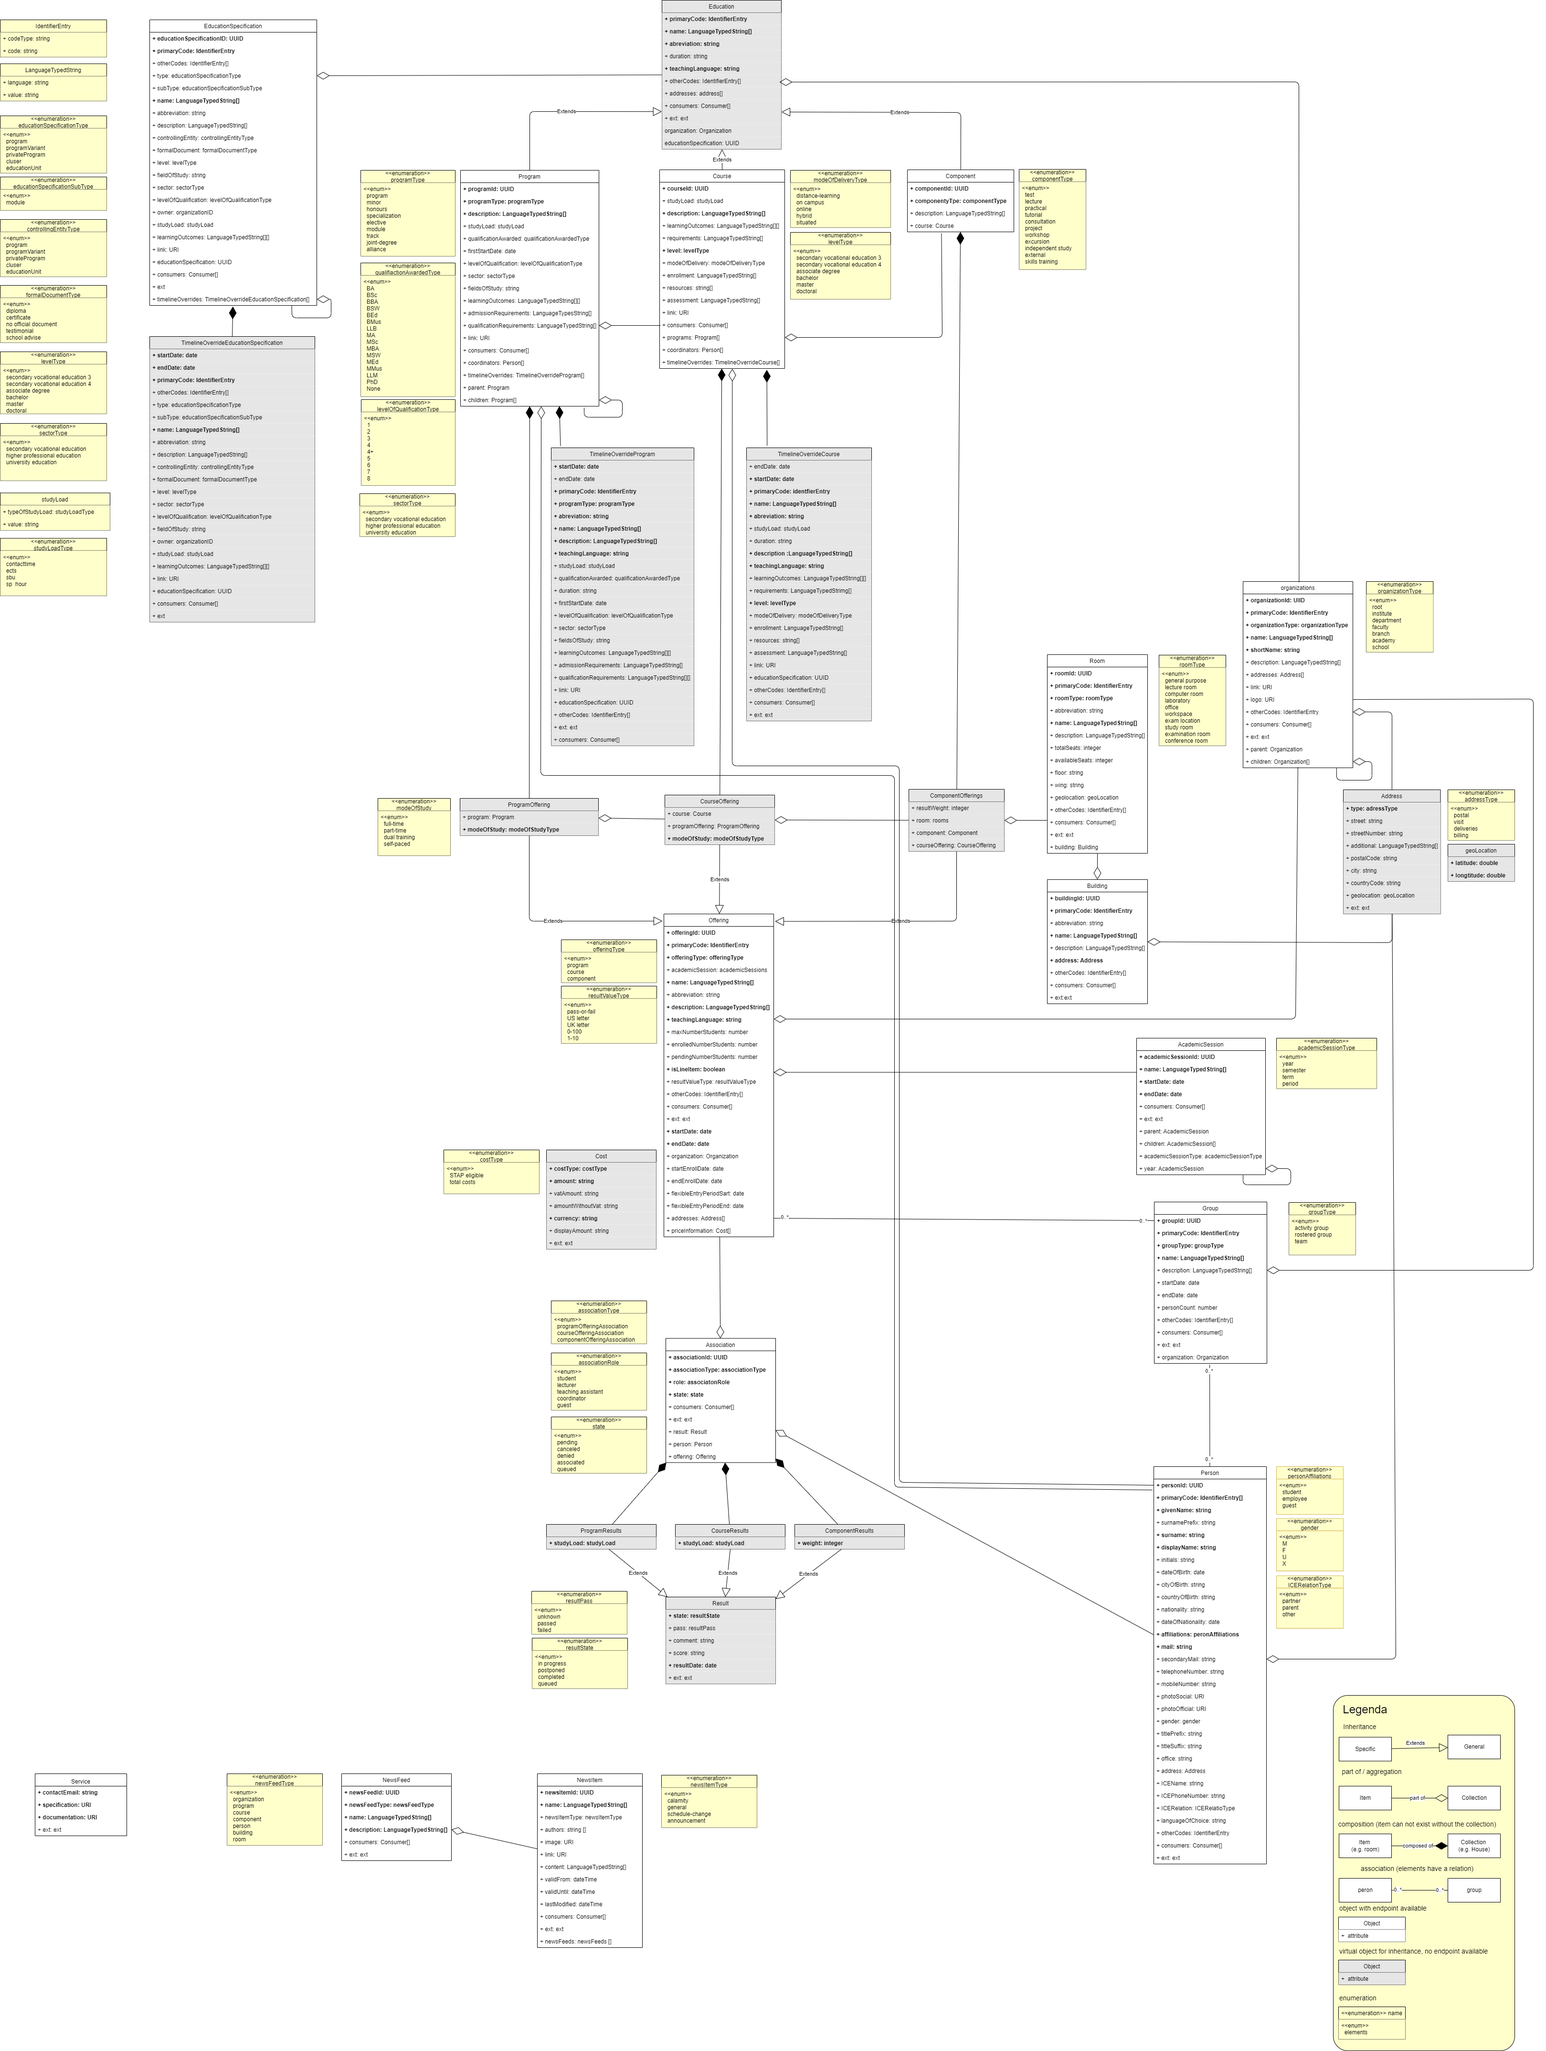
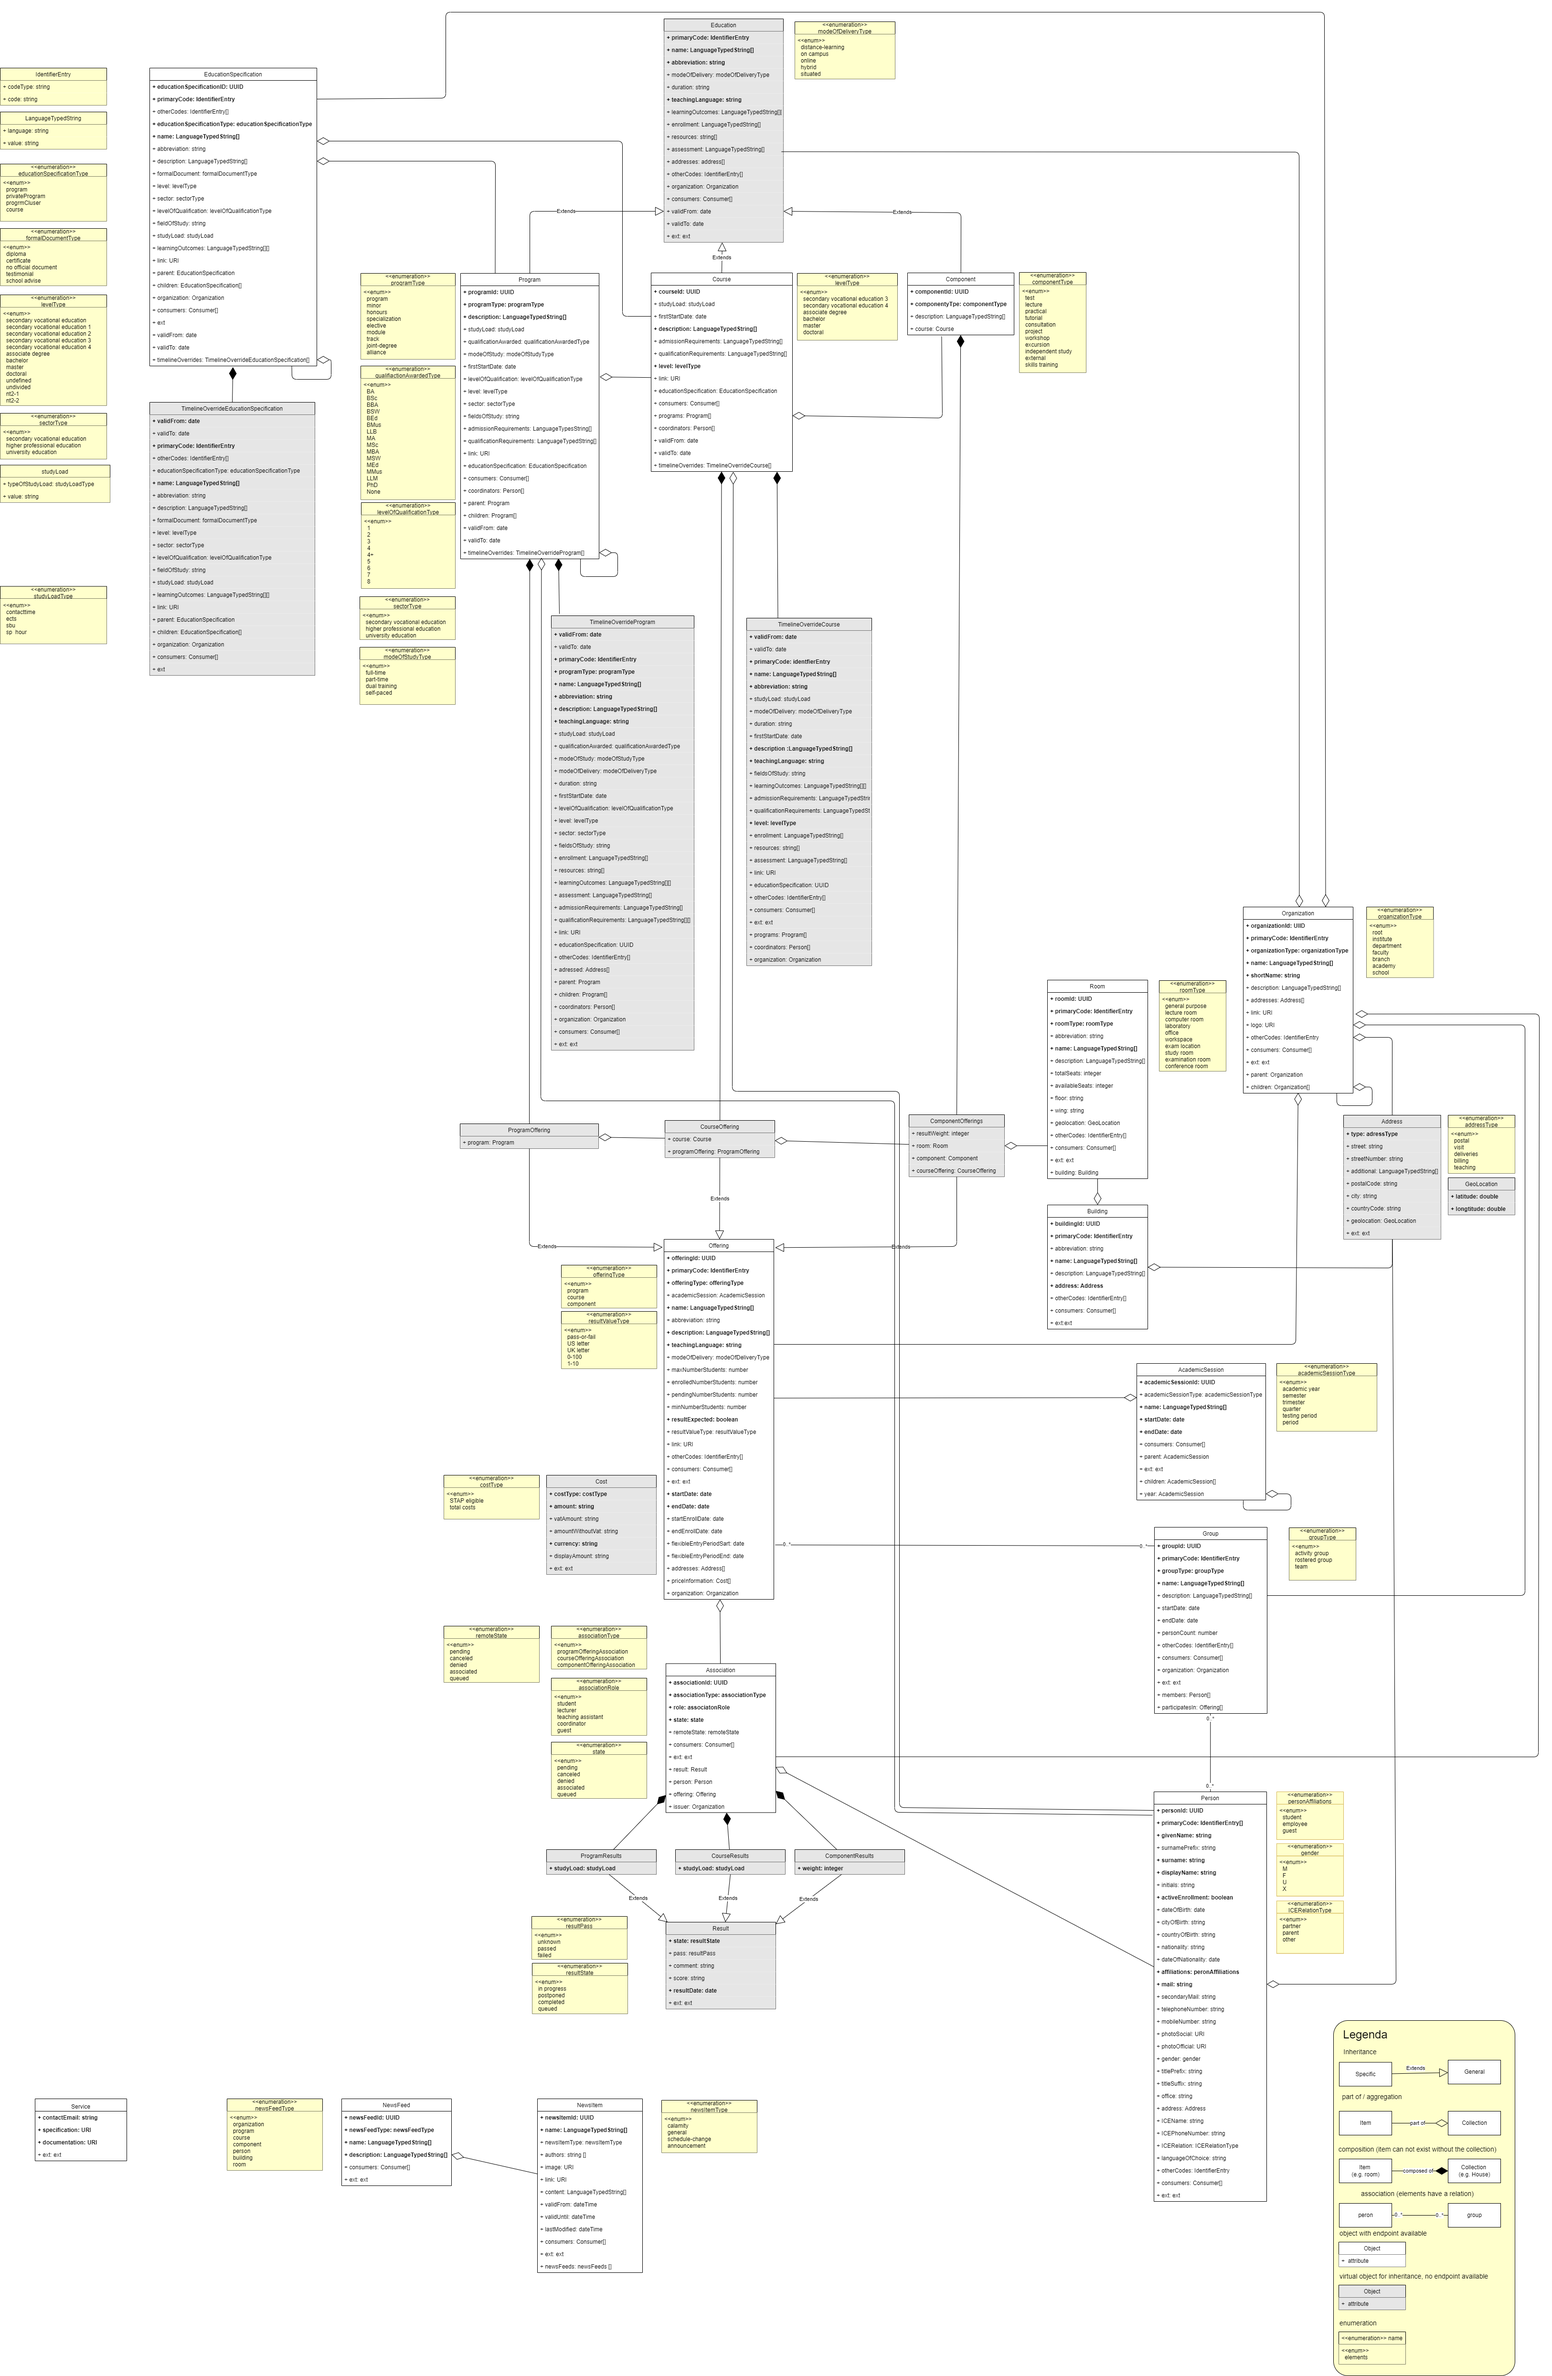
Add children attribute to EducationSpecification (#245)
* Add children attribute to EducationSpecification

* extra fixes prior to RC2

diff --git a/README.md b/README.md
@@ -15,11 +15,11 @@ If you have a question, a Slack channel is available at: [openonderwijsapi.slack
 
 This is the current version:
 
-* [v4](./v4/docs.html) (Current version - v4)
+* [v4](https://open-education-api.github.io/specification/v4/docs.html) (Current version - v4)
 
 The future v5 versions is available as a Release Candidate. This version is still under active development and will change. It is not yet suitable for implementation.
 
-* [v5](./v5-rc/docs.html) (Next version - v5)
+* [v5](https://open-education-api.github.io/specification/v5-rc/docs.html) (Next version - v5) [easy dev access](.v5-rc/docs.html)
 
 These are the previous versions:
 

diff --git a/CHANGELOG.md b/CHANGELOG.md
@@ -4,6 +4,16 @@ All notable changes to this project will be documented in this file.
 The format is based on [Keep a Changelog](https://keepachangelog.com/en/1.0.0/),
 and this project adheres to [Semantic Versioning](https://semver.org/spec/v2.0.0.html).
 
+## [5.0.0 RC2] - 2022-06-10
+### Added
+- Adds an expandable `children` attribute to EducationSpecification.
+
+### Removed
+- removed required attribute for startDate in EducationSpecification
+
+### Changed
+- update of model
+
 ## [5.0.0 RC1] - 2022-06-08
 
 ### Added
